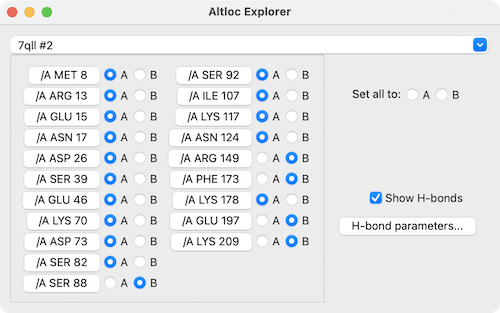
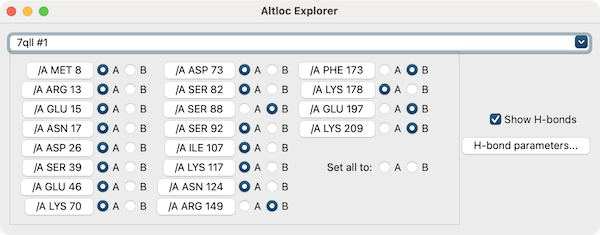
minor change in Altloc Explorer gui arrangement

diff --git a/docs/user/tools/altlocexplorer.html b/docs/user/tools/altlocexplorer.html
@@ -67,7 +67,7 @@ Choosing a specific model lists any residues with alternate locations
 that it contains. Clicking the identifier of a residue with alternate
 locations focuses on that residue and displays its atoms, and the adjacent
 buttons can be used to change which ID (which location) is being used.
-The <b>Set all to</b> checkboxes on the right allow changing all of the
+The <b>Set all to</b> checkboxes allow changing all of the
 individual residue settings to a specific ID (if available) with a single click.
 </p><p>
 <a name="hbonds"></a>
@@ -82,5 +82,5 @@ clicking <b>Apply</b> recalculates the H-bonds accordingly.
 
 <hr>
 <address>UCSF Resource for Biocomputing, Visualization, and Informatics / 
-January 2024</address>
+September 2024</address>
 </body></html>
